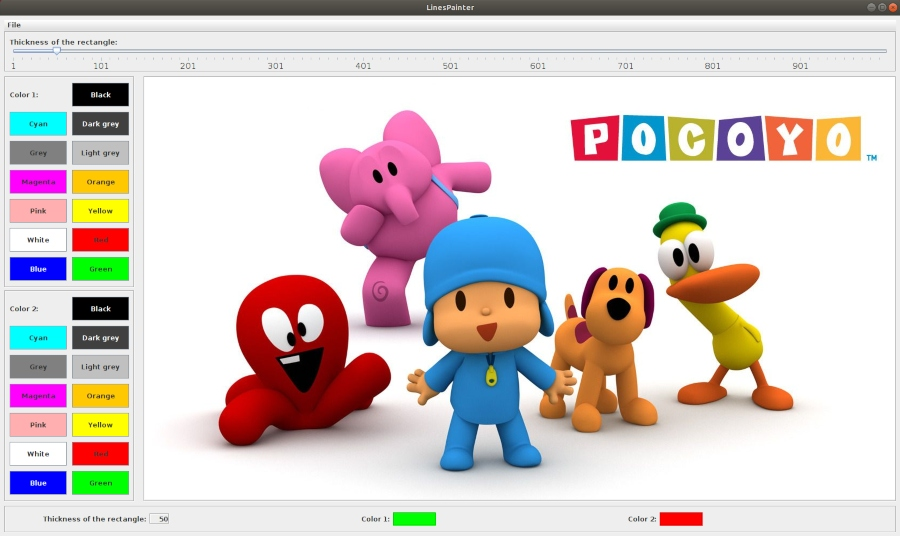
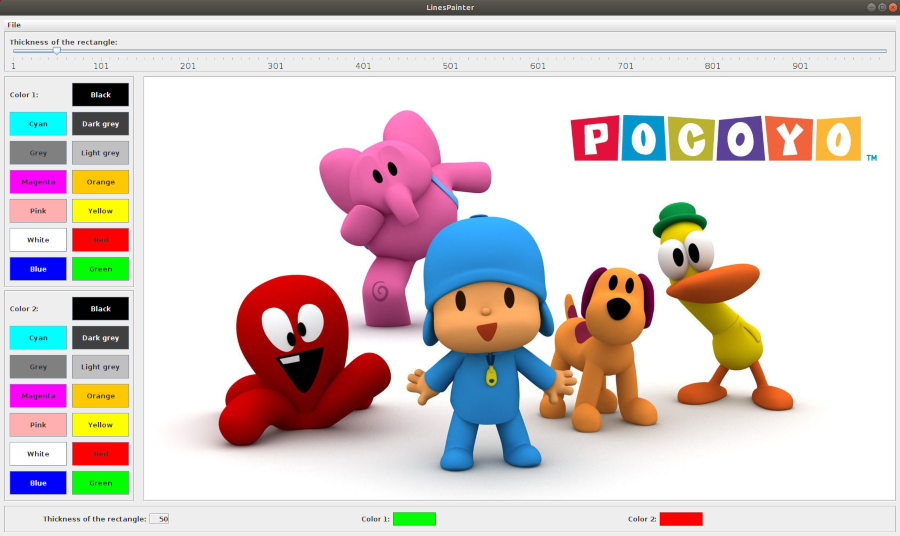
New screenshots added

diff --git a/README.md b/README.md
@@ -12,6 +12,11 @@ Project made for the subject Human Computer Interaction on the Universitat de Va
 
 ## Screenshots
 ![Screenshot1](./img/screenshot1.jpg)
+![Screenshot2](./img/screenshot2.jpg)
+![Screenshot3](./img/screenshot3.jpg)
+![Screenshot4](./img/screenshot4.jpg)
+![Screenshot5](./img/screenshot5.jpg)
+![Screenshot6](./img/screenshot6.jpg)
 
 ## Technologies
 * Java - version 13.0.1
